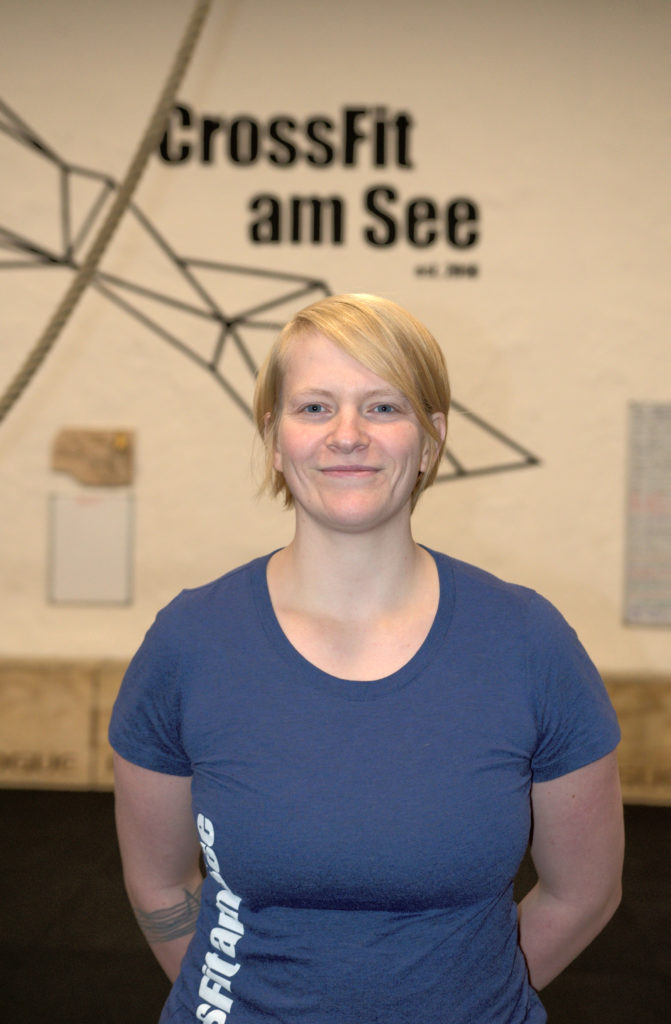
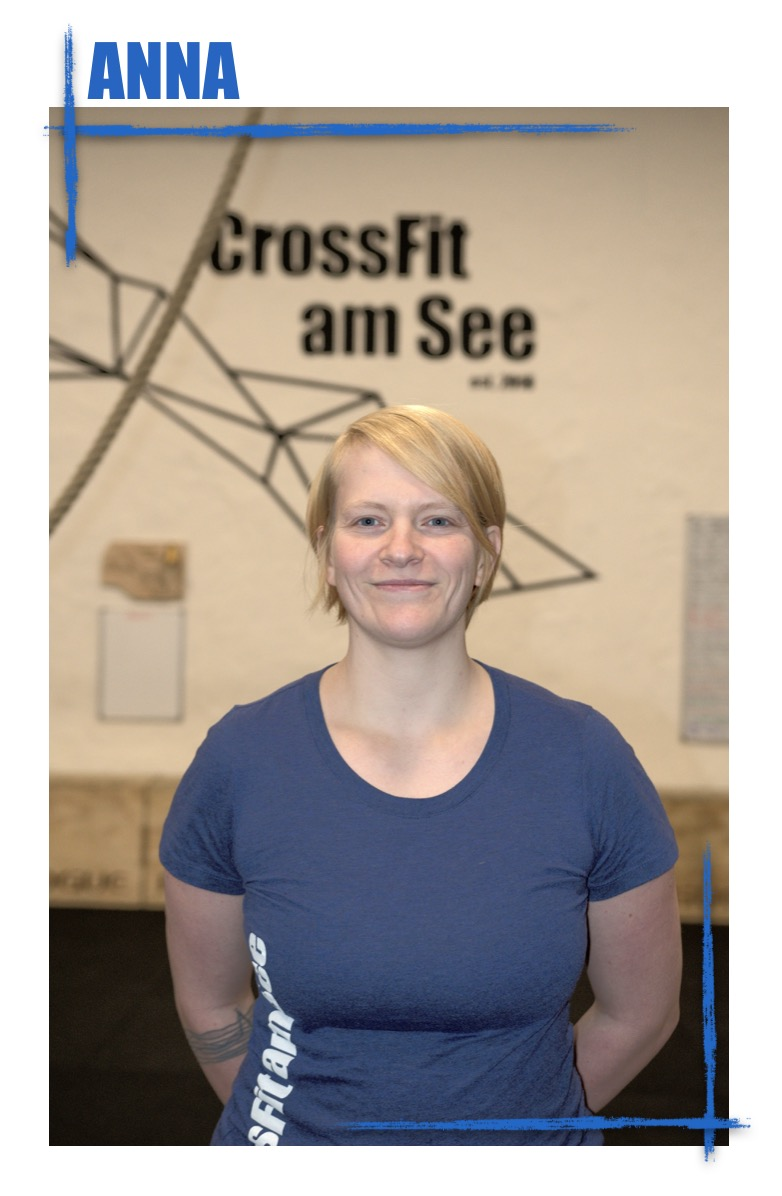
Fixed coaches images

diff --git a/src/app/app.module.ts b/src/app/app.module.ts
@@ -4,9 +4,9 @@ import { BrowserModule } from '@angular/platform-browser';
 import { AppComponent } from './app.component';
 import { CoreModule } from './core/core.module';
 import { RouterOutletDirective } from './directives/router-outlet.directive';
-import { CoachProfileComponent } from './pages/about-us/coaches/coach-profile/coach-profile.component';
-import { CoachTeaserComponent } from './pages/about-us/coaches/coach-teaser/coach-teaser.component';
 import { CoachesOverviewComponent } from './pages/about-us/coaches/coaches.component';
+import { CoachProfileComponent } from './pages/about-us/coaches/components/coach-profile/coach-profile.component';
+import { CoachTeaserComponent } from './pages/about-us/coaches/components/coach-teaser/coach-teaser.component';
 import { Halle1Component } from './pages/about-us/halle1/halle1.component';
 import { ImpressionsComponent } from './pages/about-us/impressions/impressions.component';
 import { PhilosophyComponent } from './pages/about-us/philosophy/philosophy.component';
@@ -20,6 +20,7 @@ import { WodOverviewComponent } from './pages/home/wod-overview/wod-overview.com
 import { ImpressComponent } from './pages/impress/impress.component';
 import { CrossfitComponent } from './pages/new-comer/crossfit/crossfit.component';
 import { DictionaryComponent } from './pages/new-comer/dictionary/dictionary.component';
+import { EntryComponent } from './pages/new-comer/entry/entry.component';
 import { ClassDescriptionComponent } from './pages/offer/classes/class-description/class-description.component';
 import { ClassesComponent } from './pages/offer/classes/classes.component';
 import { EventMonthComponent } from './pages/offer/events/event-month/event-month.component';
@@ -29,7 +30,6 @@ import { ScheduleComponent } from './pages/offer/schedule/schedule.component';
 import { ImageGalleryModalComponent } from './shared/components/image-gallery-modal/image-gallery-modal.component';
 import { ImageGalleryComponent } from './shared/components/image-gallery/image-gallery.component';
 import { SharedModule } from './shared/shared.module';
-import { EntryComponent } from './pages/new-comer/entry/entry.component';
 
 @NgModule({
   declarations: [

diff --git a/src/app/pages/about-us/coaches/components/coach-profile/coach-profile.component.ts b/src/app/pages/about-us/coaches/components/coach-profile/coach-profile.component.ts
@@ -1,8 +1,7 @@
 import { Subscription } from 'rxjs';
-import { Interview } from 'src/app/models/coach';
-import { CoachInterview } from 'src/app/models/coach-interview';
-import { CoachesService } from 'src/app/services/coaches.service';
-import { Location } from '@angular/common';
+import { Interview } from 'src/app/pages/about-us/coaches/models/coach';
+import { CoachInterview } from 'src/app/pages/about-us/coaches/models/coach-interview';
+import { CoachesService } from 'src/app/pages/about-us/coaches/services/coaches.service';
 import { Component, OnDestroy, OnInit } from '@angular/core';
 import { ActivatedRoute, Params } from '@angular/router';
 
@@ -13,19 +12,20 @@ import { ActivatedRoute, Params } from '@angular/router';
 })
 export class CoachProfileComponent implements OnInit, OnDestroy {
   coach: CoachInterview;
+  imageUrl: string;
 
   private subscription: Subscription;
 
   constructor(
     private route: ActivatedRoute,
-    private coachesService: CoachesService,
-    private location: Location
+    private coachesService: CoachesService
   ) { }
 
   ngOnInit() {
     this.subscription = this.route.params.subscribe((params: Params) =>
       this.coach = this.coachesService.getCoachInterview(params.name)
     );
+    this.imageUrl = this.coach.image.url.replace('.jpg', '_moving.jpg');
   }
 
   ngOnDestroy() {
@@ -40,7 +40,7 @@ export class CoachProfileComponent implements OnInit, OnDestroy {
     return this.coach.interview.slice(this.coach.interview.length / 2);
   }
 
-  navigateBack() {
-    this.location.back();
-  }
+  // navigateBack() {
+  //   this.location.back();
+  // }
 }

diff --git a/src/app/pages/about-us/coaches/services/coaches.service.ts b/src/app/pages/about-us/coaches/services/coaches.service.ts
@@ -30,7 +30,7 @@ coaches = [
     name: 'Anna',
     position: 'Headcoach',
     image: {
-      url: 'assets/images/coaches/anna.jpg',
+      url: 'assets/images/coaches/Anna.jpg',
       alt: ''
     },
     teaser: [
@@ -109,7 +109,7 @@ coaches = [
     name: 'Patrick',
     position: 'Coach',
     image: {
-      url: 'assets/images/coaches/patrick.jpg',
+      url: 'assets/images/coaches/Pat.jpg',
       alt: ''
     },
     teaser: [
@@ -185,7 +185,7 @@ coaches = [
     name: 'Axel',
     position: 'Coach',
     image: {
-      url: 'assets/images/coaches/patrick.jpg',
+      url: 'assets/images/coaches/Axel.jpg',
       alt: ''
     },
     teaser: [
@@ -257,7 +257,7 @@ Handstand Push-Up`]
     name: 'Silvia',
     position: 'Coach',
     image: {
-      url: 'assets/images/coaches/patrick.jpg',
+      url: 'assets/images/coaches/Silvia.jpg',
       alt: ''
     },
     teaser: [
@@ -344,7 +344,7 @@ Burpees over Bar`]
     name: 'Mark',
     position: 'Coach',
     image: {
-      url: 'assets/images/coaches/patrick.jpg',
+      url: 'assets/images/coaches/Mark.jpg',
       alt: ''
     },
     teaser: [
@@ -425,7 +425,7 @@ For Time:
     name: 'Jan',
     position: 'Coach',
     image: {
-      url: 'assets/images/coaches/patrick.jpg',
+      url: 'assets/images/coaches/Jan.jpg',
       alt: ''
     },
     teaser: [
@@ -501,7 +501,7 @@ For Time:
     name: 'Colin',
     position: 'Coach',
     image: {
-      url: 'assets/images/coaches/patrick.jpg',
+      url: 'assets/images/coaches/Colin.jpg',
       alt: ''
     },
     teaser: [

diff --git a/src/app/app-routing.module.ts b/src/app/app-routing.module.ts
@@ -1,7 +1,7 @@
 import { NgModule } from '@angular/core';
 import { RouterModule, Routes } from '@angular/router';
-import { CoachProfileComponent } from './pages/about-us/coaches/coach-profile/coach-profile.component';
 import { CoachesOverviewComponent } from './pages/about-us/coaches/coaches.component';
+import { CoachProfileComponent } from './pages/about-us/coaches/components/coach-profile/coach-profile.component';
 import { Halle1Component } from './pages/about-us/halle1/halle1.component';
 import { ImpressionsComponent } from './pages/about-us/impressions/impressions.component';
 import { PhilosophyComponent } from './pages/about-us/philosophy/philosophy.component';

diff --git a/src/app/pages/about-us/coaches/components/coach-profile/coach-profile.component.html b/src/app/pages/about-us/coaches/components/coach-profile/coach-profile.component.html
@@ -7,7 +7,7 @@
   </div>
   <div id="profile-picture" class="row">
     <div class="col-8 col-4 mx-auto text-center">
-      <img [src]="coach.image.url" [alt]="coach.image.alt">
+      <img [src]="imageUrl" [alt]="coach.image.alt">
     </div>
   </div>
 </header>
@@ -44,7 +44,7 @@
 </section>
 
 <div id="backButton">
-  <a mat-raised-button (click)="navigateBack()">
+  <a mat-raised-button [routerLink]="['/our-box/coaches']">
     <mat-icon>chevron_left</mat-icon>
   </a>
 </div>

diff --git a/src/app/pages/about-us/coaches/coaches.component.ts b/src/app/pages/about-us/coaches/coaches.component.ts
@@ -1,5 +1,5 @@
-import { CoachTeaser } from 'src/app/models/coach-teaser';
-import { CoachesService } from 'src/app/services/coaches.service';
+import { CoachTeaser } from 'src/app/pages/about-us/coaches/models/coach-teaser';
+import { CoachesService } from 'src/app/pages/about-us/coaches/services/coaches.service';
 import { Component, OnInit } from '@angular/core';
 
 @Component({

diff --git a/src/app/pages/about-us/coaches/components/coach-teaser/coach-teaser.component.ts b/src/app/pages/about-us/coaches/components/coach-teaser/coach-teaser.component.ts
@@ -1,6 +1,6 @@
 import { Observable } from 'rxjs';
 import { map, shareReplay } from 'rxjs/operators';
-import { CoachTeaser } from 'src/app/models/coach-teaser';
+import { CoachTeaser } from 'src/app/pages/about-us/coaches/models/coach-teaser';
 import { BreakpointObserver, Breakpoints } from '@angular/cdk/layout';
 import { Component, Input } from '@angular/core';
 

diff --git a/src/app/pages/about-us/coaches/components/coach-profile/coach-profile.component.scss b/src/app/pages/about-us/coaches/components/coach-profile/coach-profile.component.scss
@@ -9,11 +9,6 @@ header {
 
   h1 {
     font-size: 9.0rem;
-    // text-shadow:
-    //   1px 1px 3px #212121,
-    //   -1px 1px 3px #212121,
-    //   1px -1px 3px #212121,
-    //   -1px -1px 3px #212121;
   }
 
   p {
@@ -25,7 +20,6 @@ header {
 
     img {
       width: 300px;
-      border-radius: 50%;
       box-shadow: 0 0 10px 0 #212121;
     }
   }

diff --git a/src/app/pages/about-us/coaches/models/coach-interview.ts b/src/app/pages/about-us/coaches/models/coach-interview.ts
@@ -12,6 +12,5 @@ export class CoachInterview {
 
     constructor(coach: Coach) {
         Object.assign(this, coach);
-        this.image.url = this.image.url.split('.')[0] + '300x300.' + this.image.url.split('.')[1];
     }
 }
